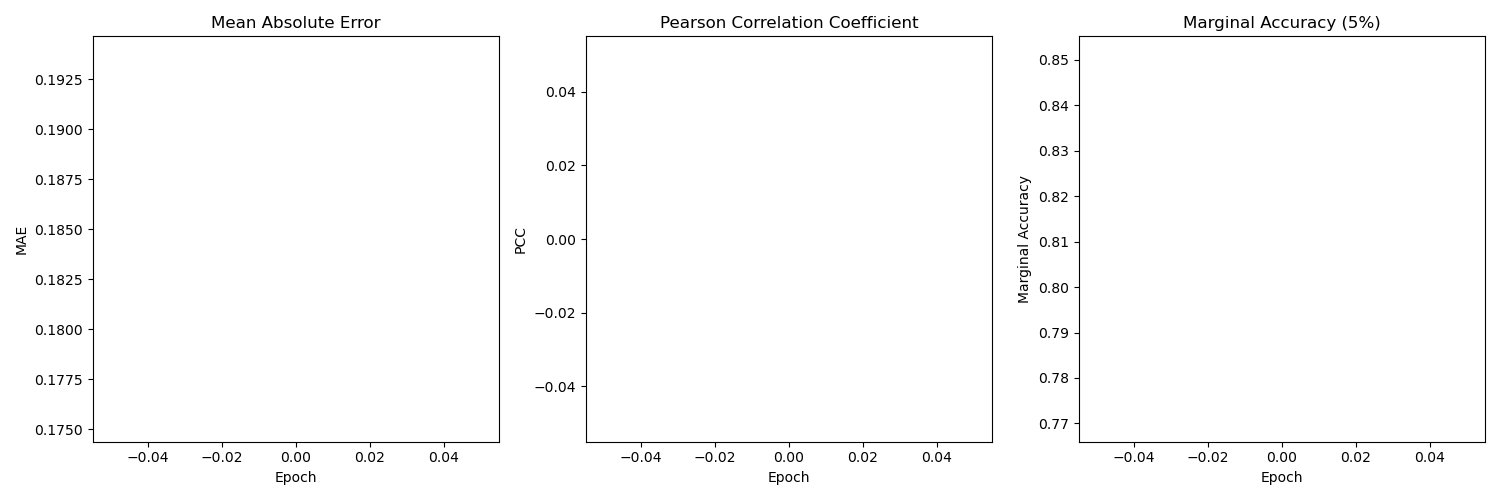
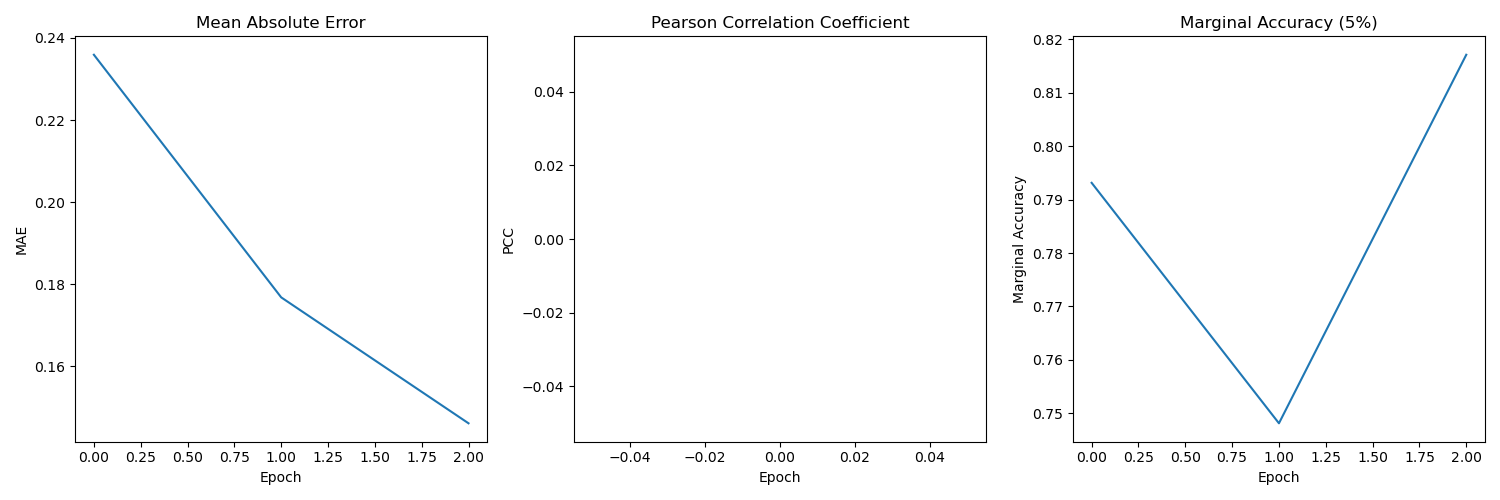
FINAL CODE

diff --git a/model/main.py b/model/main.py
@@ -36,9 +36,9 @@ if __name__ == "__main__":
     print(f'instantiated model in {time.time() - model_load:4f}s')
     
     A = build_adjacency_matrix(graph)
-    epochs = 3
+    epochs = 10
 
-    batch_size = 16
+    batch_size = 128
     # exit
     print('starting to train')
     training_start = time.time()
